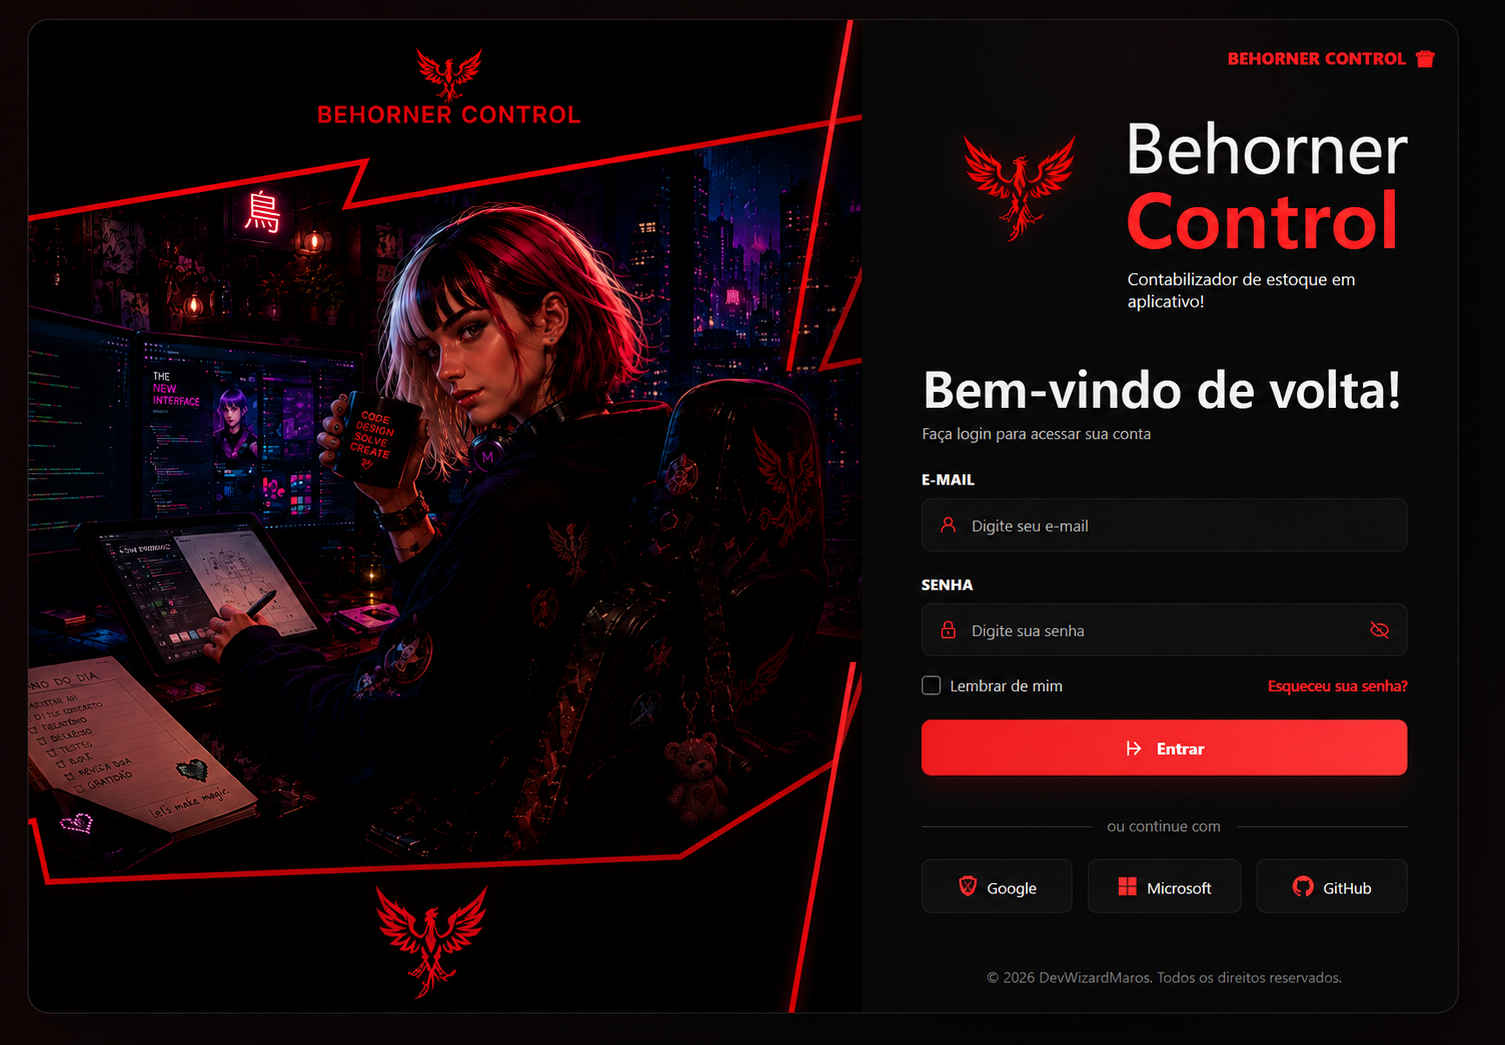
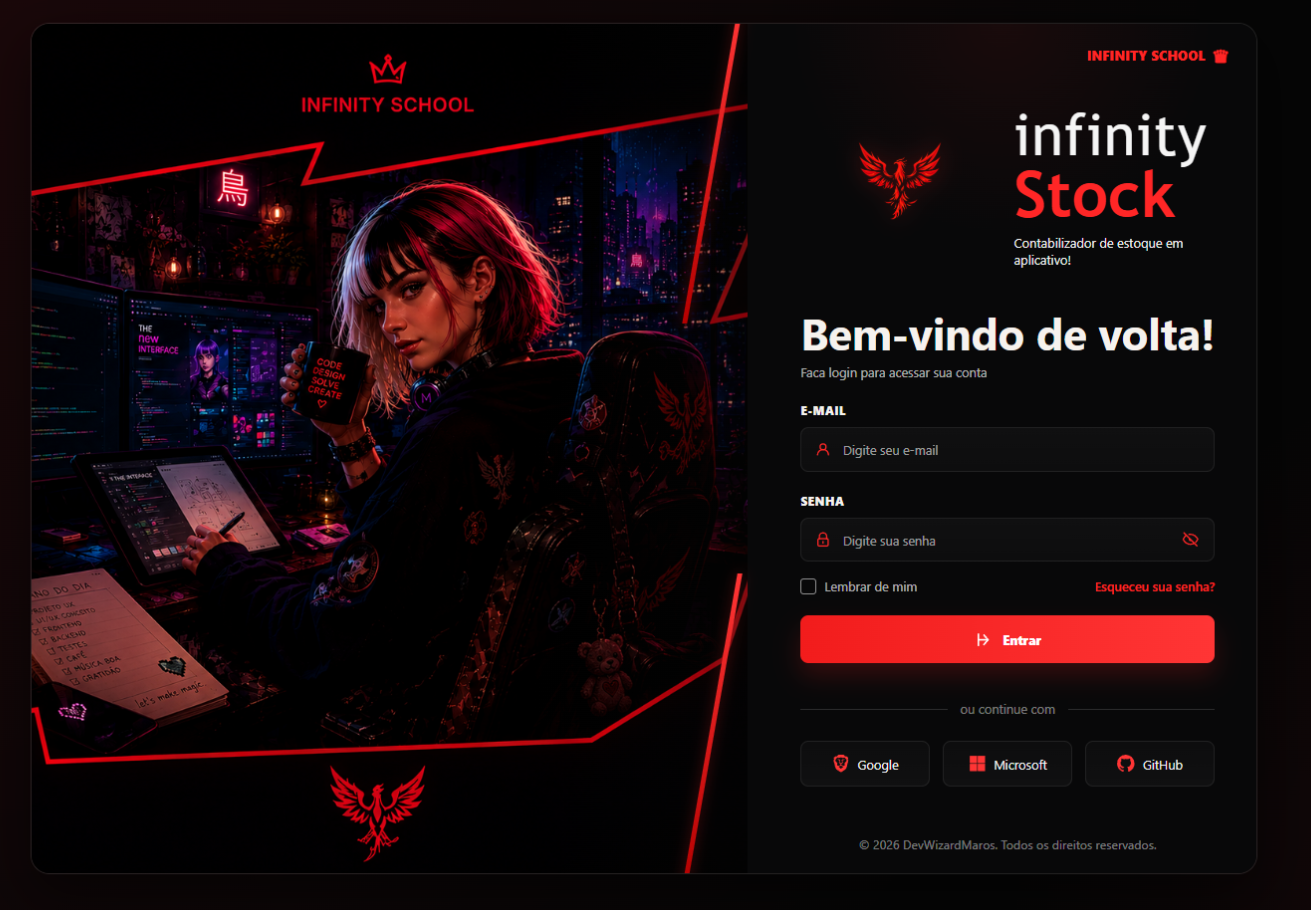
feath colocando as stacks

diff --git a/assets/js/script.js b/assets/js/script.js
@@ -1101,29 +1101,32 @@ const skillGroups = {
   'front-end': {
     id: 'front-end', title: 'Front-End', rune: '◇', accent: '#579cda', initialIndex: 4,
     technologies: [
-      { id: 'html', name: 'HTML', image: skillIcon('html') },
-      { id: 'css', name: 'CSS', image: skillIcon('css') },
-      { id: 'javascript', name: 'JavaScript', image: skillIcon('javascript') },
-      { id: 'typescript', name: 'TypeScript', image: skillIcon('typescript') },
-      { id: 'react', name: 'React', image: skillIcon('react') },
-      { id: 'tailwind', name: 'Tailwind CSS', image: skillIcon('tailwind') },
-      { id: 'bootstrap', name: 'Bootstrap', image: skillIcon('bootstrap') }
+      { id: 'html', name: 'HTML', image: './assets/img/arcenal/Stacks/Html.png' },
+      { id: 'css', name: 'CSS', image: './assets/img/arcenal/Stacks/Css.png' },
+      { id: 'javascript', name: 'JavaScript', image: './assets/img/arcenal/Stacks/Js.png' },
+      { id: 'typescript', name: 'TypeScript', image: './assets/img/arcenal/Stacks/TypeScript.png' },
+      { id: 'react', name: 'React', image: './assets/img/arcenal/Stacks/react.png' },
+      { id: 'tailwind', name: 'Tailwind CSS', image: './assets/img/arcenal/Stacks/tailwind.png' },
+      { id: 'bootstrap', name: 'Bootstrap', image: './assets/img/arcenal/Stacks/bootstrap.png' },
+      { id: 'sass', name: 'Sass', image: './assets/img/arcenal/Stacks/Sass.png' }
     ]
   },
   'back-end': {
     id: 'back-end', title: 'Back-End', rune: '⚙', accent: '#c75661', initialIndex: 1,
     technologies: [
-      { id: 'node', name: 'Node.js', image: skillIcon('node') },
-      { id: 'python', name: 'Python', image: skillIcon('python') },
-      { id: 'fastapi', name: 'FastAPI', image: skillIcon('fastapi') },
-      { id: 'flask', name: 'Flask', image: skillIcon('flask') }
+      { id: 'node', name: 'Node.js', image:  './assets/img/arcenal/Stacks/node.png'  },
+      { id: 'python', name: 'Python', image: './assets/img/arcenal/Stacks/python.png'  },
+      { id: 'fastapi', name: 'FastAPI', image: './assets/img/arcenal/Stacks/FastApi.png' },
+      { id: 'flask', name: 'Flask', image: '/assets/img/arcenal/Stacks/flask.png' },
+      { id: 'streamlit', name: 'Streamlit', image: '/assets/img/arcenal/Stacks/Streamlit.png' },
+      { id: 'flet', name: 'Flet', image: '/assets/img/arcenal/Stacks/Flet.png' }
     ]
   },
   'full-stack': {
     id: 'full-stack', title: 'Full-Stack', rune: '∞', accent: '#9565d8', initialIndex: 2,
     technologies: [
-      { id: 'typescript', name: 'TypeScript', image: skillIcon('typescript') },
-      { id: 'react', name: 'React', image: skillIcon('react') },
+      { id: 'typescript', name: 'TypeScript', image: './assets/img/arcenal/Stacks/TypeScript-transparent.png' },
+      { id: 'react', name: 'React', image: './assets/img/arcenal/Stacks/react.png' },
       { id: 'node', name: 'Node.js', image: skillIcon('node') },
       { id: 'python', name: 'Python', image: skillIcon('python') },
       { id: 'fastapi', name: 'FastAPI', image: skillIcon('fastapi') },
@@ -1133,20 +1136,20 @@ const skillGroups = {
   data: {
     id: 'data', title: 'Dados', rune: '▤', accent: '#b99b62', initialIndex: 1,
     technologies: [
-      { id: 'sql', name: 'SQL', image: skillIcon('sql') },
-      { id: 'mysql', name: 'MySQL', image: skillIcon('mysql') },
-      { id: 'sqlite', name: 'SQLite', image: skillIcon('sqlite') },
-      { id: 'mongodb', name: 'MongoDB', image: skillIcon('mongodb') }
-    ]
+      { id: 'mysql', name: 'MySQL', image:'./assets/img/arcenal/Stacks/MsqlWorkbank.png' },
+      { id: 'sqlite', name: 'SQLite', image: './assets/img/arcenal/Stacks/Sqlite3.png' }
+      ]
   },
   tools: {
     id: 'tools', title: 'Ferramentas', rune: '⚒', accent: '#c59a52', initialIndex: 2,
     technologies: [
-      { id: 'git', name: 'Git', image: skillIcon('git') },
-      { id: 'github', name: 'GitHub', image: skillIcon('github') },
-      { id: 'vite', name: 'Vite', image: skillIcon('vite') },
-      { id: 'figma', name: 'Figma', image: skillIcon('figma') },
-      { id: 'notion', name: 'Notion', image: skillIcon('notion') }
+      { id: 'git', name: 'Git', image:  './assets/img/arcenal/Stacks/git.png'  },
+      { id: 'github', name: 'GitHub', image: './assets/img/arcenal/Stacks/github.png'},
+      { id: 'vite', name: 'Vite', image:'./assets/img/arcenal/Stacks/vite.png' },
+      { id: 'figma', name: 'Figma', image: './assets/img/arcenal/Stacks/figma.png' },
+      { id: 'notion', name: 'Notion', image: './assets/img/arcenal/Stacks/notion.png' },
+      { id: 'firebase', name: 'Notion', image: './assets/img/arcenal/Stacks/firebase.png' },
+      { id: 'vscode', name: 'VsCode', image: './assets/img/arcenal/Stacks/VsCode.png' }
     ]
   }
 };

diff --git a/assets/css/style.css b/assets/css/style.css
@@ -1264,15 +1264,15 @@
     transition: opacity 0.5s ease;
   }
   .spell-library__backdrop {
-    background: radial-gradient(
+    /* background: radial-gradient(
       circle at 50% 52%,
       rgba(112, 65, 134, 0.16),
       rgba(3, 2, 6, 0.72) 66%
-    );
+    ); */
   }
   .spell-library__fog {
     inset: 26% 9% 7%;
-    background:
+    /* background:
       radial-gradient(
         ellipse at 50% 62%,
         rgba(148, 88, 173, 0.22),
@@ -1287,7 +1287,7 @@
         ellipse at 76% 58%,
         rgba(114, 62, 136, 0.14),
         transparent 46%
-      );
+      ); */
     filter: blur(18px);
     animation: spellFogDrift 8s ease-in-out infinite alternate;
   }
@@ -11793,10 +11793,7 @@ button.corridor-relic-frame {
 .spell-library:not([data-library-state="idle"]) .spell-library__chamber {
   --scene-response: 1;
   border-color: rgba(210, 169, 91, 0.4);
-  box-shadow:
-    inset 0 0 120px #020103,
-    inset 0 0 70px rgba(86, 44, 108, 0.12),
-    0 34px 80px rgba(0, 0, 0, 0.54);
+  /* box-shadow: inset 0 0 120px #000000, inset 0 0 70px rgba(86, 44, 108, 0.12), 0 34px 80px rgba(0, 0, 0, 0.54); */
 }
 
 .spell-library__architecture {
@@ -11967,12 +11964,12 @@ button.corridor-relic-frame {
 
 .spell-library__light-spill--blue {
   left: 3%;
-  background: radial-gradient(ellipse, rgba(75, 91, 211, 0.2), transparent 68%);
+  /* background: radial-gradient(ellipse, rgba(75, 91, 211, 0.2), transparent 68%); */
 }
 
 .spell-library__light-spill--ember {
   right: 3%;
-  background: radial-gradient(ellipse, rgba(196, 56, 125, 0.18), transparent 68%);
+  /* background: radial-gradient(ellipse, rgba(196, 56, 125, 0.18), transparent 68%); */
 }
 
 .spell-library__chamber:hover .spell-library__light-spill,
@@ -14463,12 +14460,12 @@ button.corridor-relic-frame {
   transform: none;
 }
 .spell-library:not([data-library-state="idle"]) .spell-library__hands--idle {
-  visibility: visible;
-  opacity: .46;
-}
-.spell-library:not([data-library-state="idle"]) .spell-library__hands--awakened {
   visibility: hidden;
   opacity: 0;
+}
+.spell-library:not([data-library-state="idle"]) .spell-library__hands--awakened {
+  visibility: visible;
+  opacity: .72;
 }
 
 .spell-grimoire.skill-carousel-modal {
@@ -14491,42 +14488,20 @@ button.corridor-relic-frame {
 .spell-grimoire.skill-carousel-modal::after { content: none; }
 
 .skill-carousel-modal__panel {
-  position: relative;
   width: 100%;
   height: 380px;
   min-height: 0;
   padding: 29px 64px 25px;
   overflow: hidden;
-  border: 1px solid rgba(202, 159, 84, .58);
   border-radius: 12px 32px 12px 32px;
   color: #eee4d3;
-  background: radial-gradient(circle at center, rgba(45, 24, 61, .88), rgba(10, 7, 16, .97) 70%);
-  box-shadow:
-    0 32px 70px rgba(0, 0, 0, .78),
-    0 0 34px color-mix(in srgb, var(--book-accent) 22%, transparent),
-    inset 0 0 0 7px rgba(204, 162, 91, .04),
-    inset 0 0 60px rgba(0, 0, 0, .6);
+  background: transparent;
+  box-shadow: none;
   animation: skillPanelOpen .42s cubic-bezier(.2, .78, .24, 1) both;
 }
 .skill-carousel-modal__panel::before,
 .skill-carousel-modal__panel::after {
-  content: "";
-  position: absolute;
-  pointer-events: none;
-}
-.skill-carousel-modal__panel::before {
-  inset: 10px;
-  border: 1px solid rgba(213, 173, 101, .17);
-  border-radius: 8px 25px 8px 25px;
-}
-.skill-carousel-modal__panel::after {
-  inset: 0;
-  opacity: .26;
-  background:
-    linear-gradient(90deg, transparent, rgba(197, 151, 80, .14) 50%, transparent),
-    radial-gradient(circle at 8% 20%, rgba(255,255,255,.22) 0 1px, transparent 2px),
-    radial-gradient(circle at 91% 78%, rgba(255,255,255,.18) 0 1px, transparent 2px);
-  background-size: auto, 37px 31px, 43px 39px;
+  content: none;
 }
 
 .skill-carousel-modal--closing { animation: skillModalClose .3s ease both !important; }
@@ -14635,6 +14610,15 @@ button.corridor-relic-frame {
 .skill-carousel__symbol { width: 138px; height: 138px; display: grid; place-items: center; filter: drop-shadow(0 8px 10px rgba(0,0,0,.38)); }
 .skill-carousel__symbol svg,
 .skill-carousel__symbol img { width: 100%; height: 100%; object-fit: contain; overflow: visible; }
+
+/* Ajuste óptico: esta arte ocupa mais área que os demais logotipos. */
+#skill-javascript .skill-carousel__symbol img {
+  transform: translateY(-16px) scale(.6);
+}
+
+#skill-git .skill-carousel__symbol img {
+  transform: translateY(-10px) scale(.72);
+}
 
 .skill-carousel__arrow {
   position: relative;
